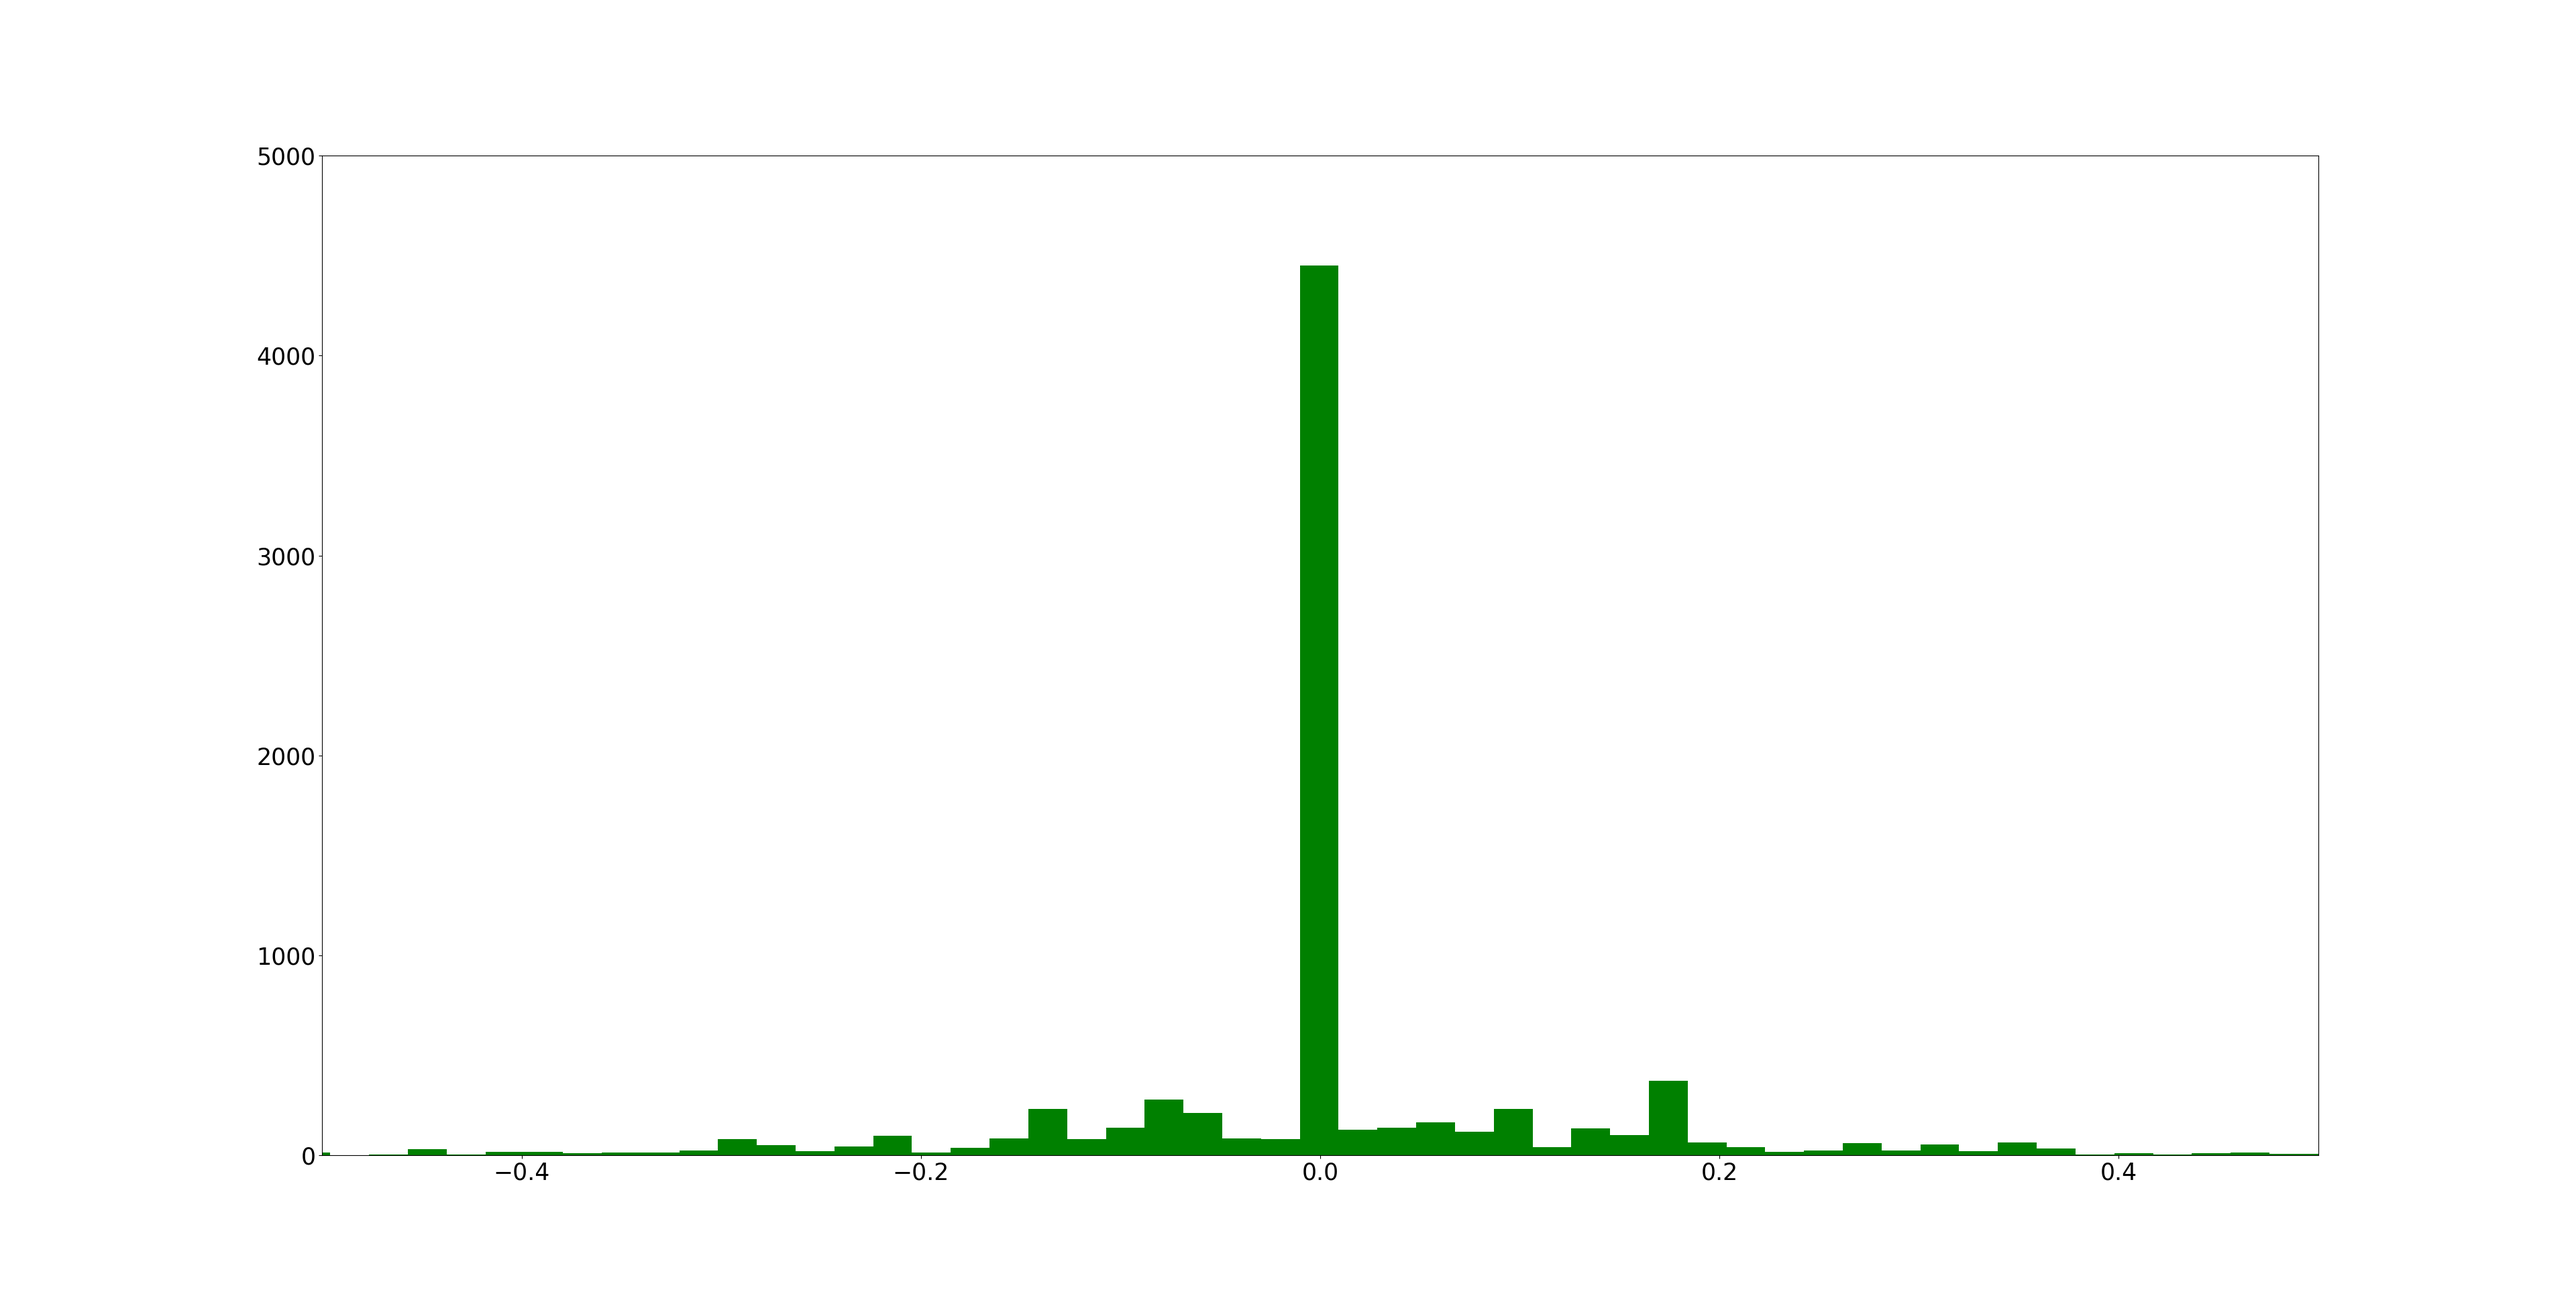
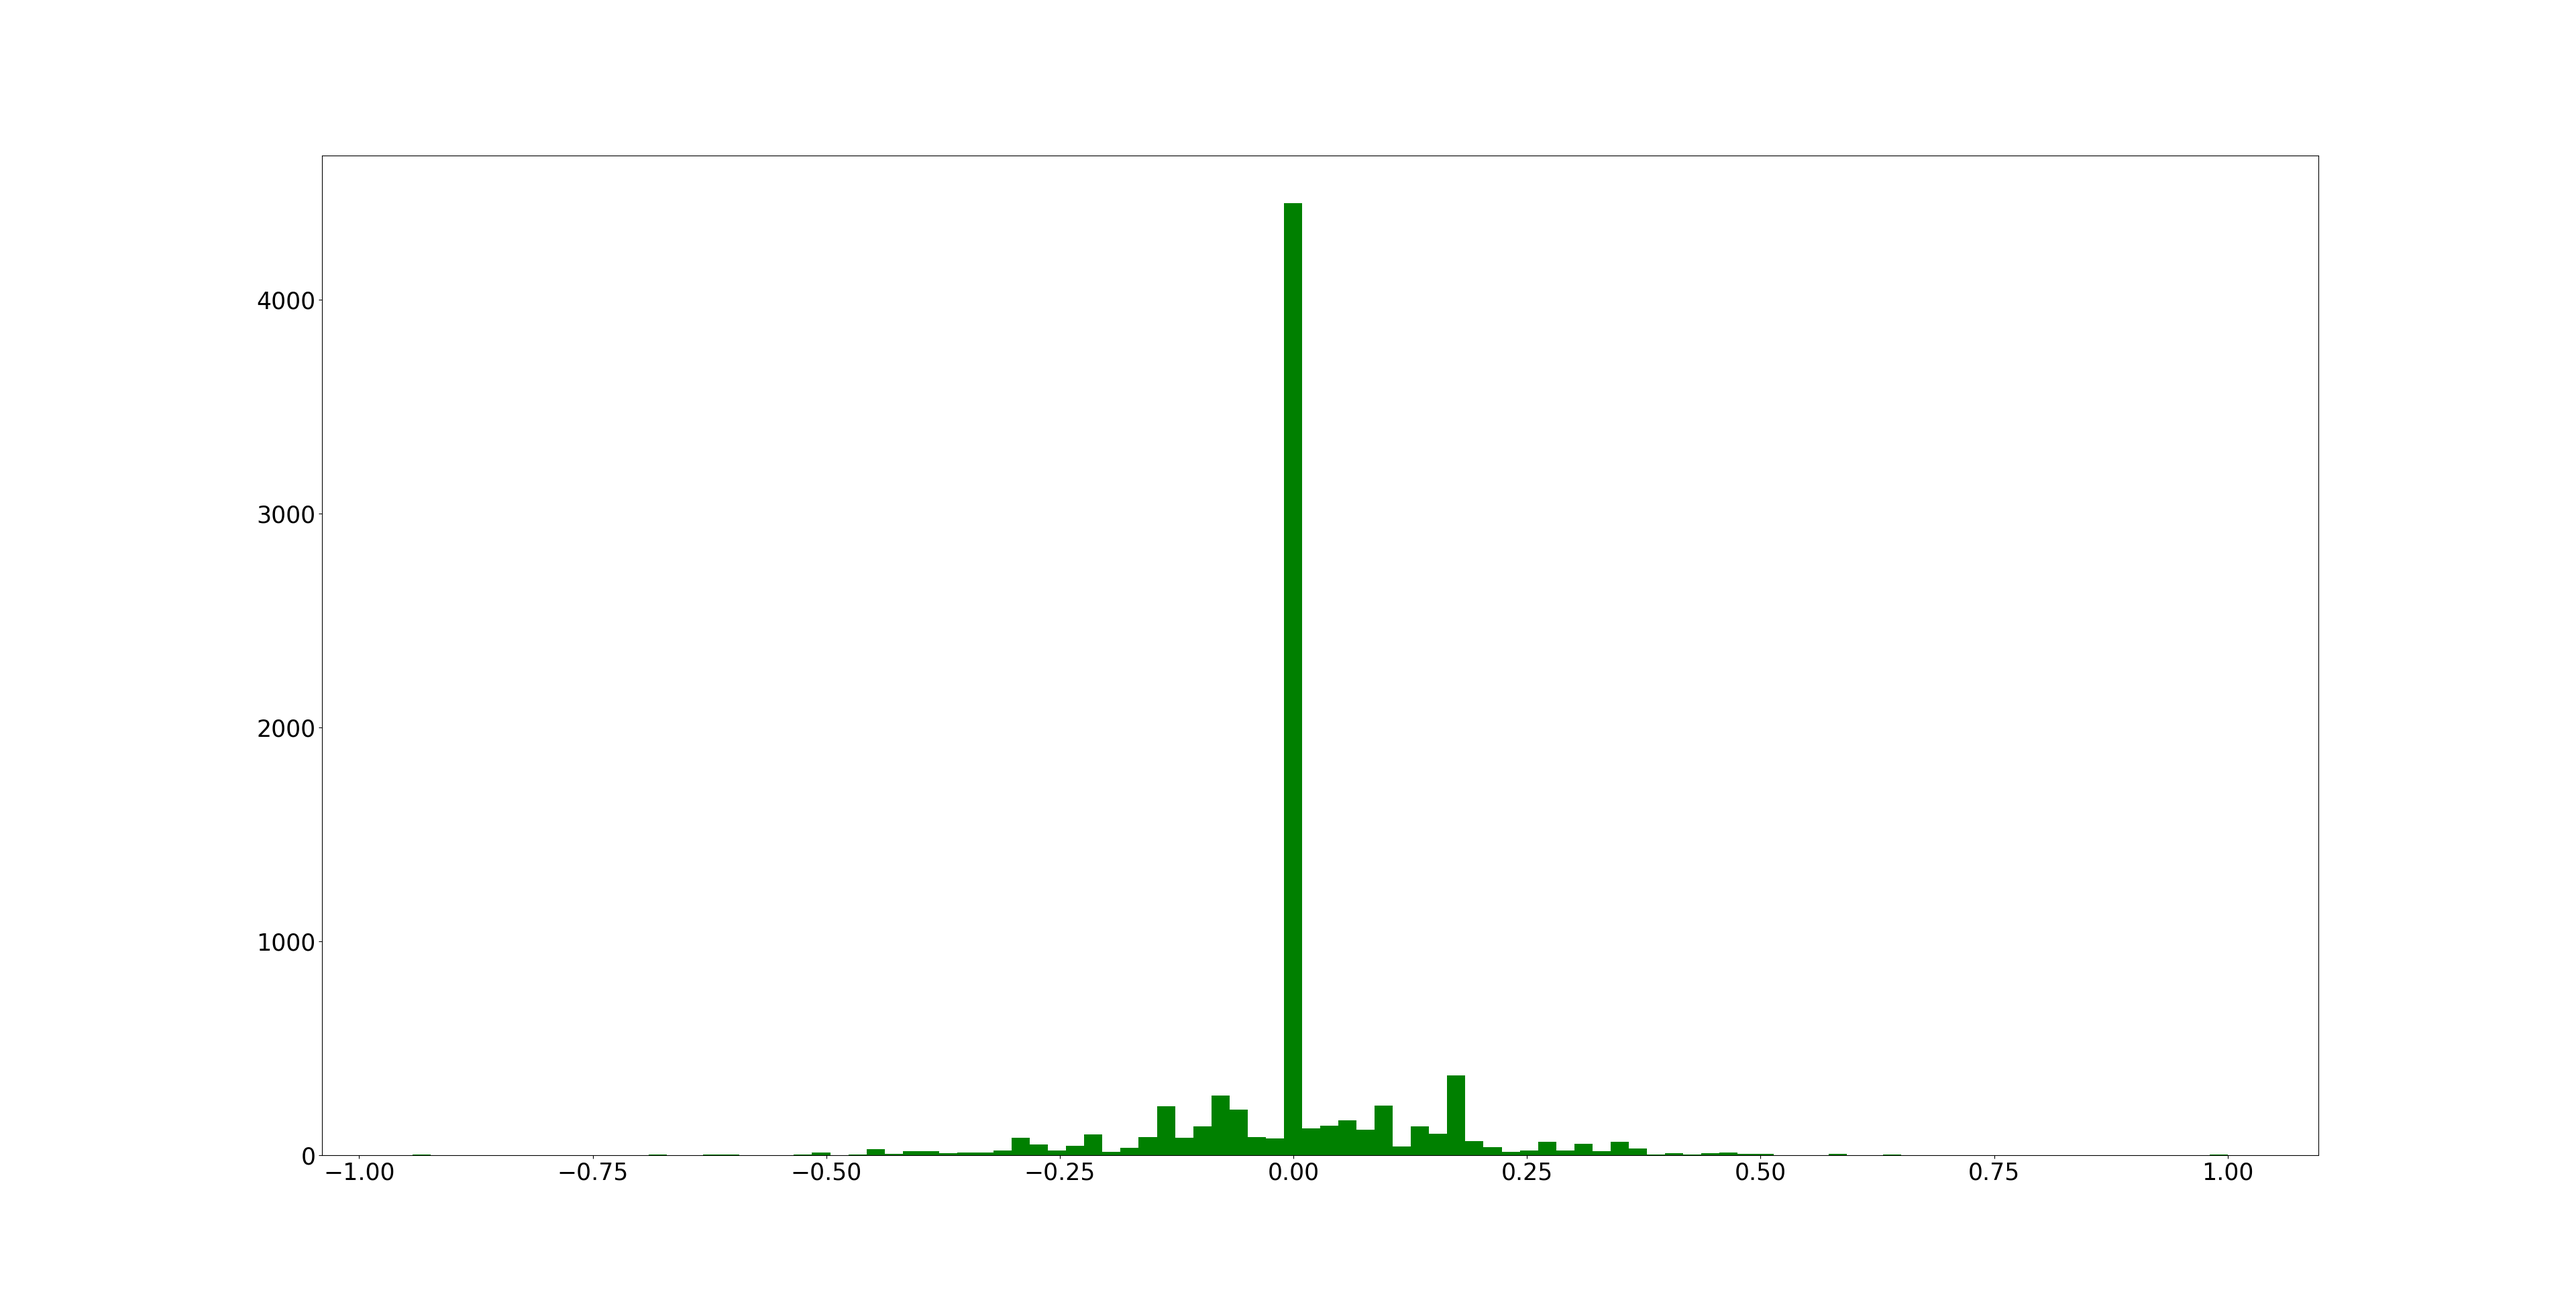
plots

diff --git a/setup.py b/setup.py
@@ -15,8 +15,8 @@ with open(csv_file, 'r') as f:
     for row in reader:
         correction = 0.35  # this is a parameter to tune
         steering_center = float(row[3])
-        if abs(steering_center) < 0.001:
-            continue
+        # if abs(steering_center) < 0.001:
+        #     continue
         steering_left = steering_center + correction
         steering_right = steering_center - correction
 
@@ -28,7 +28,7 @@ with open(csv_file, 'r') as f:
 
         # add images and angles to data set
         car_images.extend([img_center, img_left, img_right])
-        steering_angles.extend([steering_center, steering_left, steering_right])
+        steering_angles.extend([steering_center])
 
 data = {'features': np.array(car_images), 'labels': np.array(steering_angles)}
 n, bins, patches = plt.hist(data['labels'], 100, facecolor = 'green')
